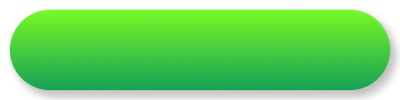
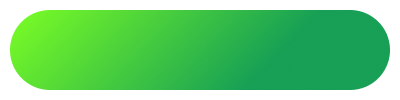
updated button sprites, resetting controls now turns off mouse control

diff --git a/Assets/Scripts/Input/ResetBindings.cs b/Assets/Scripts/Input/ResetBindings.cs
@@ -3,6 +3,7 @@ using System.Collections.Generic;
 using TMPro;
 using UnityEngine;
 using UnityEngine.InputSystem;
+using UnityEngine.UI;
 
 public class ResetBindings : MonoBehaviour
 {
@@ -12,6 +13,9 @@ public class ResetBindings : MonoBehaviour
     public InputActionAsset playerInputActions;
     private InputActionMap playerActionMap;
 
+    public GameObject MouseOn;
+    public GameObject MouseOff;
+
     private void Start()
     {
         playerActionMap = playerInputActions.FindActionMap("Player");
@@ -20,6 +24,11 @@ public class ResetBindings : MonoBehaviour
     public void ResetAllBindings()
     {
         playerActionMap.RemoveAllBindingOverrides();
+
+        PlayerPrefs.SetInt("MouseControl", -1);
+
+        MouseOff.GetComponent<Button>().interactable = true;
+        MouseOn.GetComponent<Button>().interactable = false;
 
         if (OnReset != null)
         {
